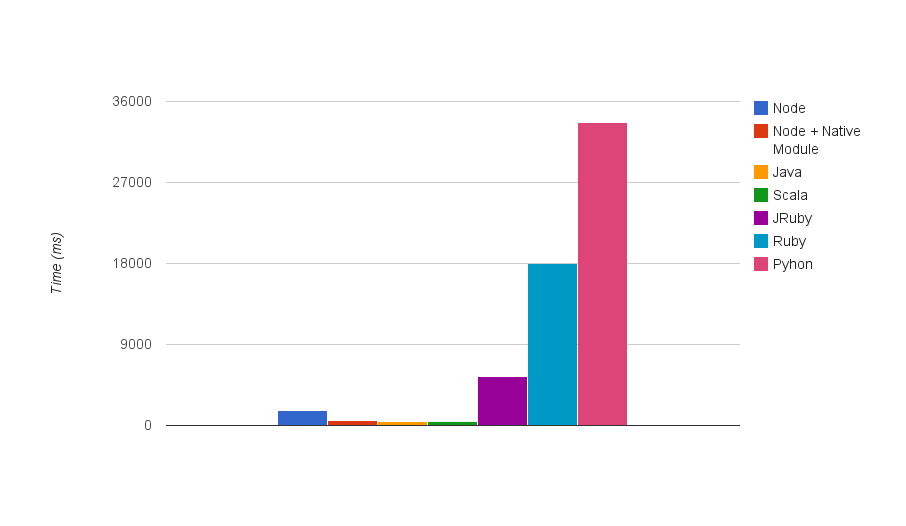
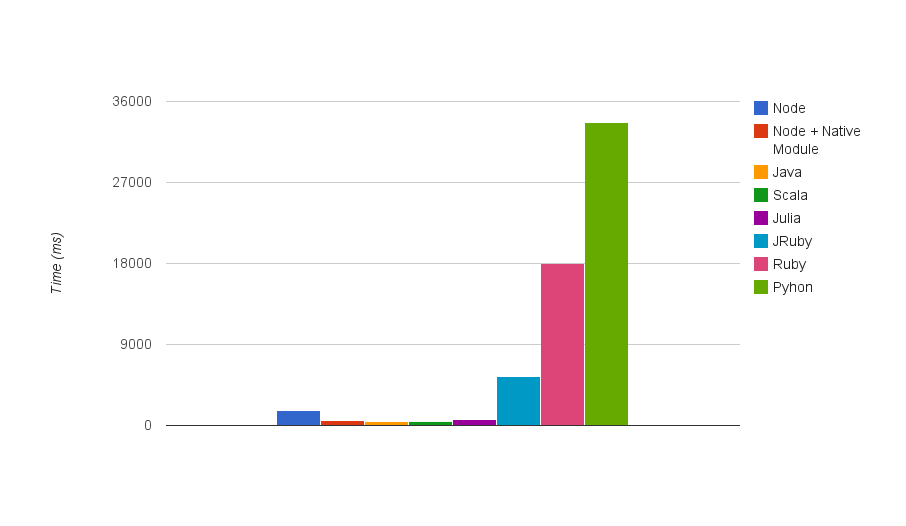
Adding Julia

diff --git a/README.md b/README.md
@@ -9,6 +9,7 @@ Benchmark of fibonacci(40) calculation on several languages
 * gcc version 4.8.2
 * Java HotSpot 64-bit v1.8.0_25
 * Scala code runner version 2.11.4
+* julia version 0.3.5
 * ruby 2.1.5p273
 * jruby 1.7.18 (1.9.3p551) 2014-12-22 625381c on Java HotSpot(TM) 64-Bit Server VM 1.8.0_25-b17 +jit
 * Python 2.7.6
